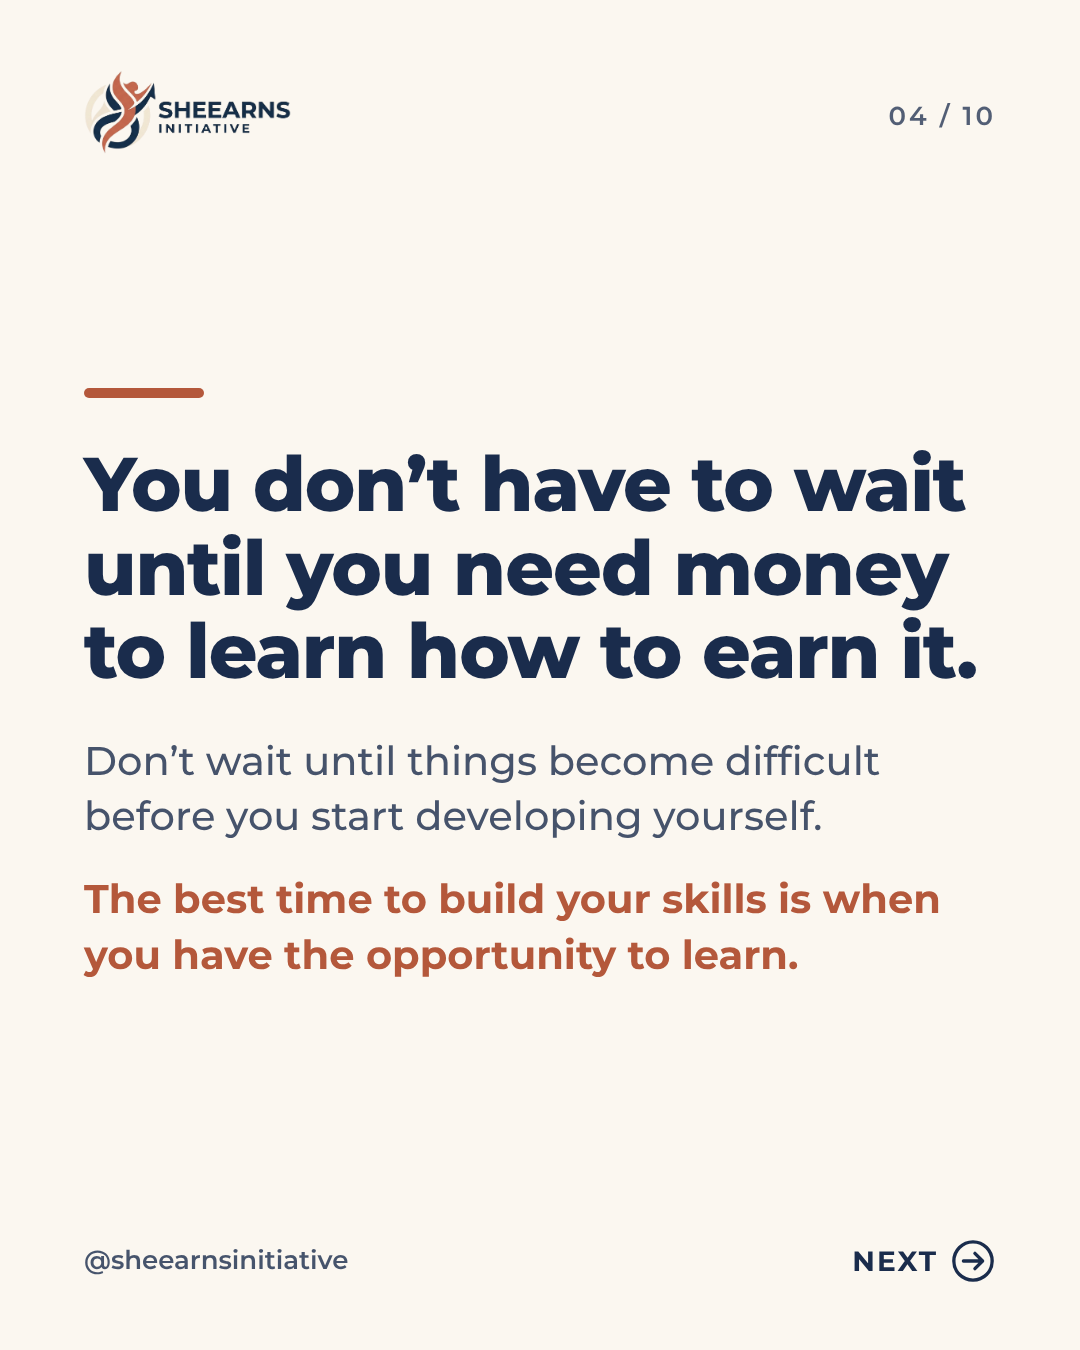
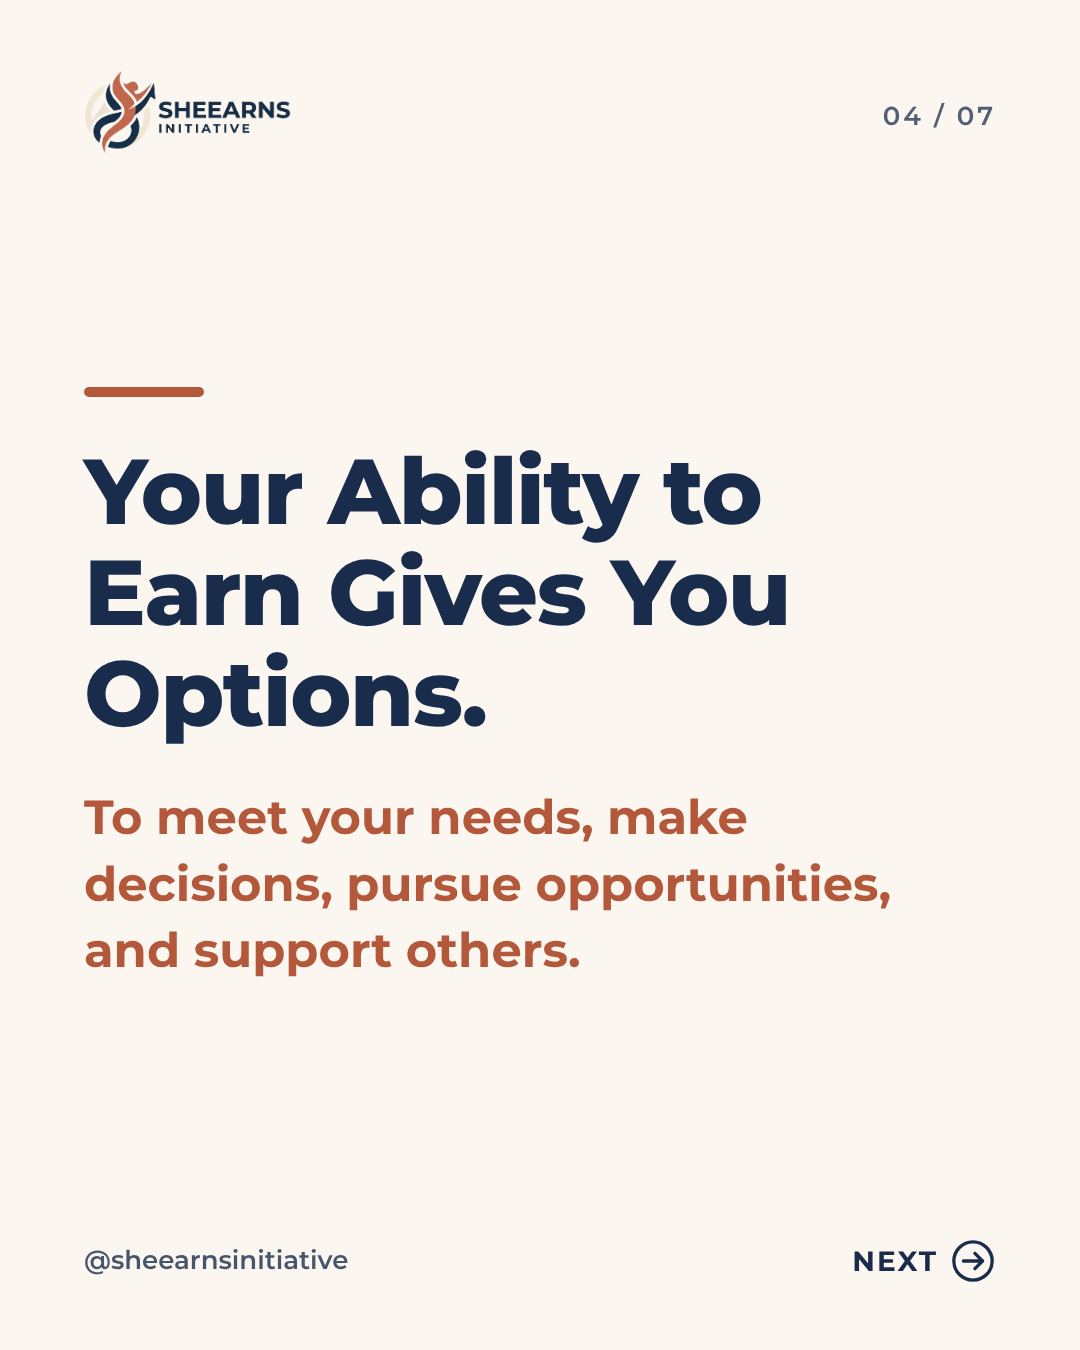
Shorten SheEarns one-off carousel to the new 7-slide copy
Larger type for the shorter text; the closing question is now optional
in template-story.html.

Claude-Session: https://claude.ai/code/session_01SrTf6yzLPhKBTuSbCr2fW8

Changed region(s): [[0.0611, 0.3111, 0.9167, 0.7467], [0.825, 0.0622, 0.9167, 0.0933]]

diff --git a/carousels/build/template-story.html b/carousels/build/template-story.html
@@ -74,7 +74,7 @@ window.render = async ({ slide: s, index, total, handle, theme, logo }) => {
     inner = `<div class="bar"></div><div class="head" id="h">${s.head}</div>
       <div class="body" id="b" style="margin-top:36px">${paras}</div>
       <div class="sign"><img src="../assets/logos/${logo}${theme.logo === 'white' ? '-white' : ''}.png"><i>${s.signoff.tagline}</i></div>
-      <div class="ask" id="q">${svg('chat', theme.askInk, 3.5)}<span>${s.question}</span></div>`;
+      ${s.question ? `<div class="ask" id="q">${svg('chat', theme.askInk, 3.5)}<span>${s.question}</span></div>` : ''}`;
   } else {
     inner = `<div class="bar"></div><div class="head" id="h">${s.head}</div>
       ${listFirst ? list : ''}
@@ -90,7 +90,7 @@ window.render = async ({ slide: s, index, total, handle, theme, logo }) => {
   await document.fonts.ready;
   const box = document.getElementById('box'), head = document.getElementById('h');
   const others = [...el.querySelectorAll('#b, #l')];
-  const sizes = n === 1 ? [104, 44] : s.signoff ? [78, 40] : [76, 40];
+  const sizes = n === 1 ? [104, 46] : [92, 48];
   const over = fitBlock(box, head, others, sizes[0], sizes[1], 0.6);
   return { overflow: over };
 };

diff --git a/carousels/README.md b/carousels/README.md
@@ -47,7 +47,7 @@ The brief has no captions; `captions.md` reuses each cover's hook.
 Longer single carousels written as headline + short lines live in `build/stories/*.json` and render
 with `node build/render-story.mjs stories/<file>.json` (`build/template-story.html`). Lines starting
 with `!` are the highlighted key line; `list` renders as bullets. Output goes to the JSON's `folder`,
-e.g. `sheearns-initiative/extra-01-every-woman-should-have-something-her-own/` (10 slides).
+e.g. `sheearns-initiative/extra-01-every-woman-should-have-something-her-own/` (7 slides).
 
 ## Re-rendering
 

diff --git a/carousels/sheearns-initiative/extra-01-every-woman-should-have-something-her-own/caption.md b/carousels/sheearns-initiative/extra-01-every-woman-should-have-something-her-own/caption.md
@@ -1,3 +1,3 @@
 Support is a gift. Building something of your own is a choice you can make alongside it, whatever stage you're at.
 
-What skill would you encourage every young woman to learn? Tell us in the comments.
+What's one skill you're building for yourself this year? Tell us in the comments.
